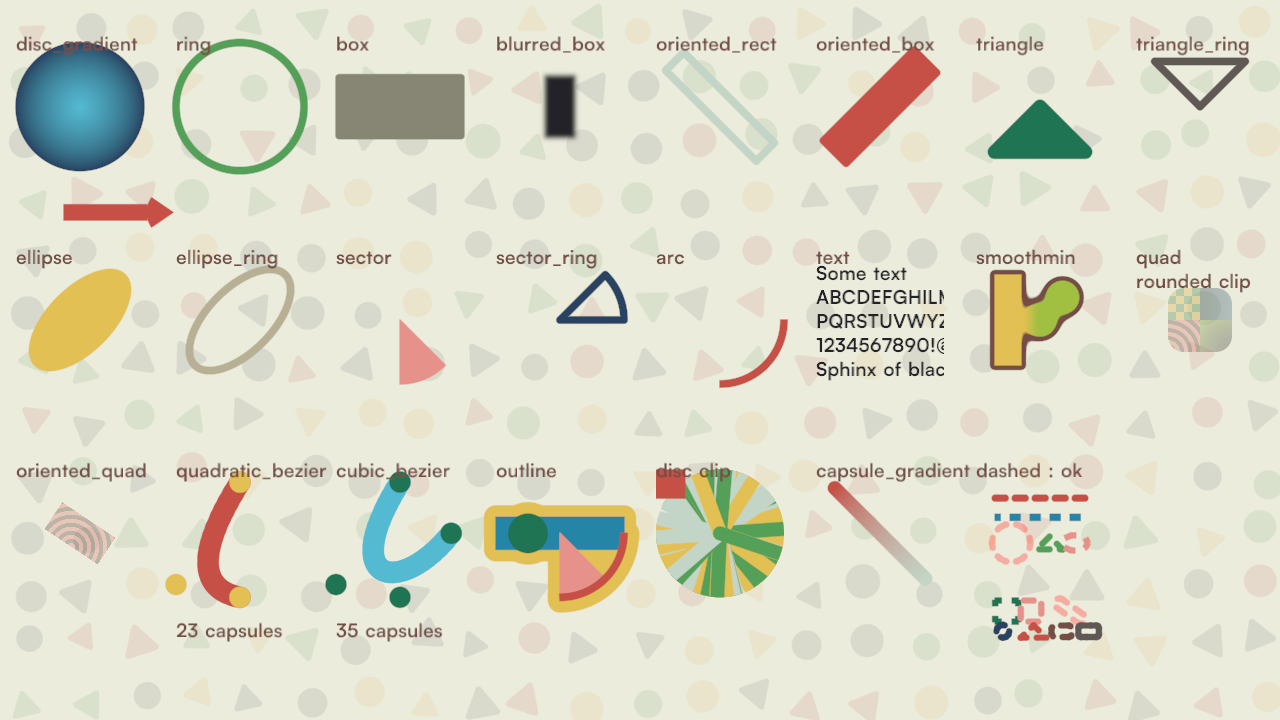
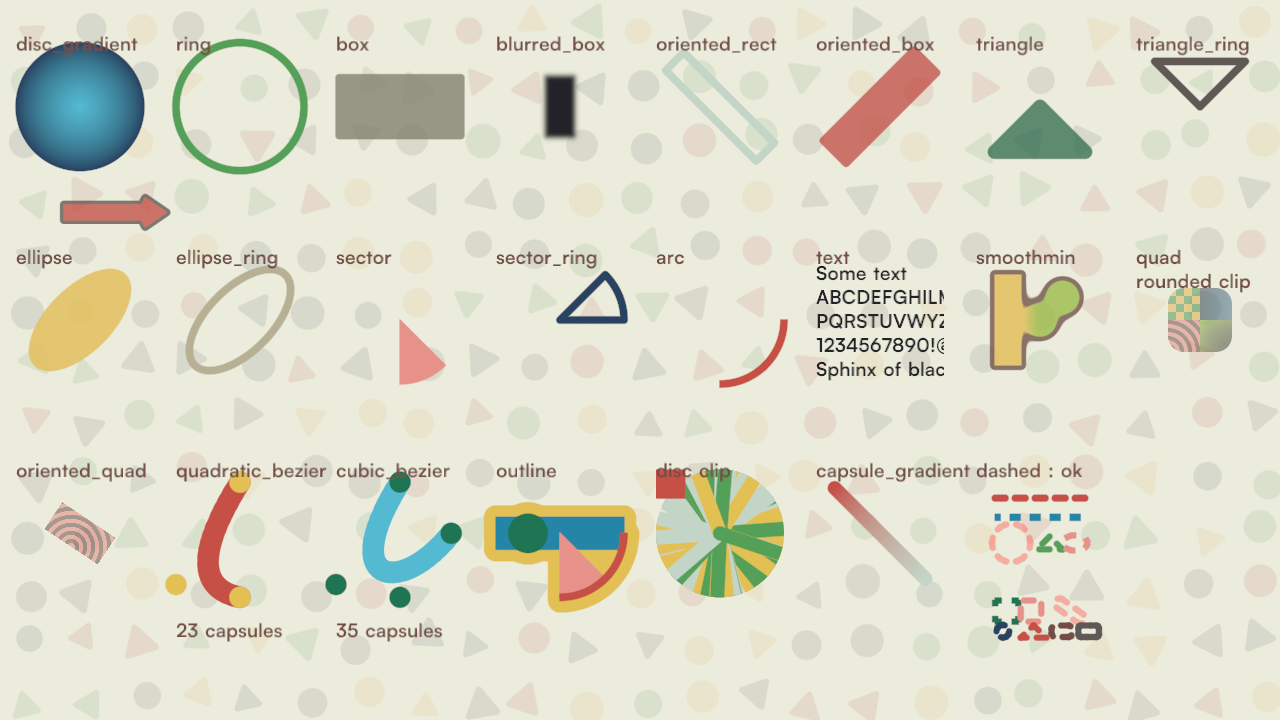
put more transparent objects in the test scene

diff --git a/tests/test.c b/tests/test.c
@@ -55,6 +55,12 @@ static const uint32_t miya_light_green = FROM_HTML(0xa1bf41);
 static const uint32_t miya_yellow = FROM_HTML(0xe3c054);
 
 //-----------------------------------------------------------------------------------------------------------------------------
+static inline draw_color patch_color_alpha(draw_color input, uint8_t alpha)
+{
+    return (input&0x00ffffff) | (alpha<<24);
+}  
+
+//-----------------------------------------------------------------------------------------------------------------------------
 static inline uint32_t lerp_color(uint32_t a, uint32_t b, float t)
 {
     int tt = (int)(t * 256.f);
@@ -435,7 +441,7 @@ void frame(void)
     od_draw_text(renderer, cx-radius, cy-radius*1.25f, "ring", miya_brown);
 
     slot(2, &cx, &cy, &radius);
-    od_draw_box(renderer, cx - radius, cy - radius*.5f, cx + radius, cy + radius*.5f, radius * 0.05f, miya_grey);
+    od_draw_box(renderer, cx - radius, cy - radius*.5f, cx + radius, cy + radius*.5f, radius * 0.05f, patch_color_alpha(miya_grey, 224));
     od_draw_text(renderer, cx-radius, cy-radius*1.25f, "box", miya_brown);
 
     slot(3, &cx, &cy, &radius);
@@ -449,12 +455,12 @@ void frame(void)
 
     slot(5, &cx, &cy, &radius);
     od_draw_oriented_box(renderer, cx + cosf(angle) * radius, cy - sinf(angle) * radius, cx - cosf(angle) * radius, cy + sinf(angle) * radius,
-                         radius * 0.5f, radius * 0.05f, miya_red);
+                         radius * 0.5f, radius * 0.05f, patch_color_alpha(miya_red, 224));
     od_draw_text(renderer, cx-radius, cy-radius*1.25f, "oriented_box", miya_brown);
 
     slot(6, &cx, &cy, &radius);
     od_draw_triangle(renderer, (float[]){cx, cy, cx - cosf(angle) * radius, cy + sinf(angle) * radius,
-                     cx + cosf(angle) * radius, cy +sinf(angle) * radius}, radius * 0.1f, miya_dark_green);
+                     cx + cosf(angle) * radius, cy +sinf(angle) * radius}, radius * 0.1f, patch_color_alpha(miya_dark_green, 224));
     od_draw_text(renderer, cx-radius, cy-radius*1.25f, "triangle", miya_brown);
 
     slot(7, &cx, &cy, &radius);
@@ -464,7 +470,7 @@ void frame(void)
 
     slot(8, &cx, &cy, &radius);
     od_draw_ellipse(renderer, cx + cosf(angle) * radius, cy - sinf(angle) * radius, cx - cosf(angle) * radius, cy + sinf(angle) * radius,
-                    radius, miya_yellow);
+                    radius, patch_color_alpha(miya_yellow, 224));
     od_draw_text(renderer, cx-radius, cy-radius*1.25f, "ellipse", miya_brown);
 
     slot(9, &cx, &cy, &radius);
@@ -493,23 +499,23 @@ void frame(void)
 
     slot(14, &cx, &cy, &radius);
     od_begin_group(renderer, true, radius * 0.25f, radius * 0.05f);
-    od_draw_disc(renderer, cx, cy, radius*0.25f, miya_light_green);
-    od_draw_disc(renderer, cx + cosf(angle) * radius * .5f, cy - sinf(angle) * radius * .5f, radius*0.25f, miya_light_green);
-    od_draw_box(renderer, cx-radius*.7f, cy-radius*.7f, cx-radius*.3f, cy+radius*.7f, 0.f, miya_yellow);
+    od_draw_disc(renderer, cx, cy, radius*0.25f, patch_color_alpha(miya_light_green, 224));
+    od_draw_disc(renderer, cx + cosf(angle) * radius * .5f, cy - sinf(angle) * radius * .5f, radius*0.25f, patch_color_alpha(miya_light_green, 224));
+    od_draw_box(renderer, cx-radius*.7f, cy-radius*.7f, cx-radius*.3f, cy+radius*.7f, 0.f, patch_color_alpha(miya_yellow, 224));
     od_end_group(renderer, miya_brown);
     od_draw_text(renderer, cx-radius, cy-radius*1.25f, "smoothmin", miya_brown);
 
     slot(15, &cx, &cy, &radius);
     od_push_cliprect_rounded(renderer, cx - radius*.5f, cy - radius*.5f, cx + radius*.5f, cy + radius*.5f, radius*.25f);
-    od_draw_quad(renderer, cx-radius, cy-radius, cx, cy, (od_quad_uv){0.f, 0.f, 1.f, 1.f}, 0, 0x7fffffff);
-    od_draw_quad(renderer, cx, cy-radius, cx+radius, cy, (od_quad_uv){0.f, 0.f, 1.f, 1.f}, 1, 0x7fffffff);
-    od_draw_quad(renderer, cx-radius, cy, cx, cy+radius, (od_quad_uv){0.f, 0.f, 1.f, 1.f}, 2, 0x7fffffff);
-    od_draw_quad(renderer, cx, cy, cx+radius, cy+radius, (od_quad_uv){0.f, 0.f, 1.f, 1.f}, 3, 0x7fffffff);
+    od_draw_quad(renderer, cx-radius, cy-radius, cx, cy, (od_quad_uv){0.f, 0.f, 1.f, 1.f}, 0, 0xafffffff);
+    od_draw_quad(renderer, cx, cy-radius, cx+radius, cy, (od_quad_uv){0.f, 0.f, 1.f, 1.f}, 1, 0xafffffff);
+    od_draw_quad(renderer, cx-radius, cy, cx, cy+radius, (od_quad_uv){0.f, 0.f, 1.f, 1.f}, 2, 0xafffffff);
+    od_draw_quad(renderer, cx, cy, cx+radius, cy+radius, (od_quad_uv){0.f, 0.f, 1.f, 1.f}, 3, 0xafffffff);
     od_pop_clip(renderer);
     od_draw_text(renderer, cx-radius, cy-radius*1.25f, "quad\nrounded clip", miya_brown);
 
     slot(16, &cx, &cy, &radius);
-    od_draw_oriented_quad(renderer, cx, cy, radius, radius*.5f, angle * 0.75f, (od_quad_uv){0.f, 0.f, 1.f, 0.5f}, 2, 0x7fffffff);
+    od_draw_oriented_quad(renderer, cx, cy, radius, radius*.5f, angle * 0.75f, (od_quad_uv){0.f, 0.f, 1.f, 0.5f}, 2, 0xafffffff);
     od_draw_text(renderer, cx-radius, cy-radius*1.25f, "oriented_quad", miya_brown);
 
     slot(17, &cx, &cy, &radius);
@@ -569,11 +575,12 @@ void frame(void)
         float ax = fmodf(s + (float) frame_count * sapp_widthf() * 0.01f, sapp_widthf() + 2.f * s) - s;
         float ay = sapp_heightf() * 0.295f;
 
-        od_begin_group(renderer, false, 0.f, 0.f);
-        od_draw_box(renderer, ax - s, ay - s * 0.12f, ax + s * 0.3f, ay + s * 0.12f, 0.f, miya_red);
+        od_begin_group(renderer, false, 0.f, 2.f);
+        draw_color arrow_color = patch_color_alpha(miya_red, 224);
+        od_draw_box(renderer, ax - s, ay - s * 0.12f, ax + s * 0.3f, ay + s * 0.12f, 0.f, arrow_color);
         // the pie's apex is at its center : put it at the tip (ax + 0.7s) and point the bisector back towards the shaft
-        od_draw_sector(renderer, ax + s * 0.7f, ay, s * 0.4f, 3.14159265f - 0.6f, 1.2f, miya_red);
-        od_end_group(renderer, miya_red);
+        od_draw_sector(renderer, ax + s * 0.6f, ay, s * 0.4f, 3.14159265f - 0.6f, 1.2f, arrow_color);
+        od_end_group(renderer, patch_color_alpha(miya_dark_grey, 224));
     }
 
     slot(22, &cx, &cy, &radius);
